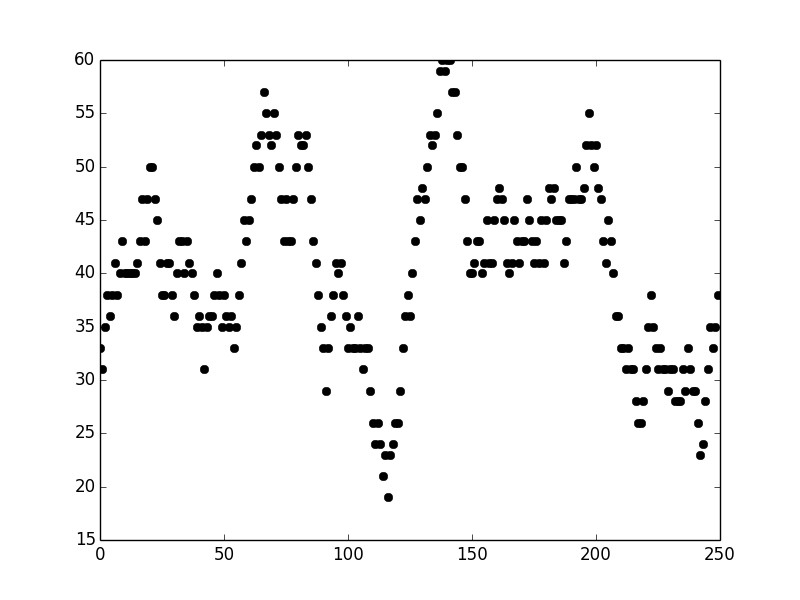
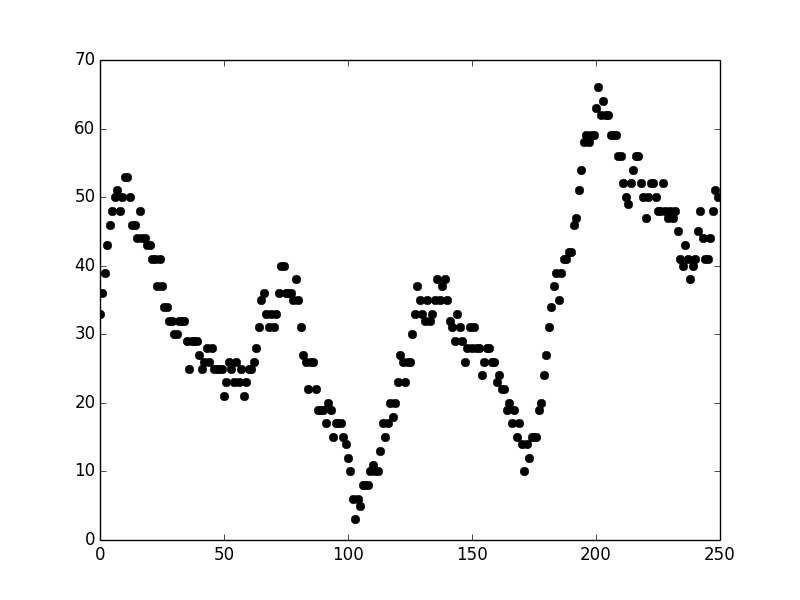
Add midi examples of scale shifting every 20 notes

diff --git a/merw.py b/merw.py
@@ -2,6 +2,7 @@ import numpy as np
 import matplotlib.pyplot as plt
 from potentials import *
 from merwmidi import make_midi
+import random
 
 class Merw(object):
     def __init__(self, size):
@@ -10,6 +11,8 @@ class Merw(object):
         self.pot = E_potential(self.size)
         self.S = self.pot.get_S()
         self.A = self.pot.get_A()
+    def set_scale_shift(self, shift):
+        self.pot.set_scale_shift(shift)
     def set_prefered(self, prefered):
         self.pot.set_prefered(prefered)
     def get_S(self):
@@ -51,14 +54,21 @@ if __name__ == '__main__':
         return ret
 
     for it in range(N_):
-        if (it%50 == 0):
-            print it, '/', N_, 'current position: ', pos
+
 
         # Histogram
         histogram[pos] += 1
 
         positions.append(pos)
         next_pos = merw.get_next_value(pos)
+
+        # Move
+        if (it%20 == 0):
+            shift = random.randint(-5,5)
+            shift = 3
+            merw.set_scale_shift(shift)
+            print it, '/', N_, 'current position: ', pos,\
+                    'changing scale:', shift
         merw.set_prefered(int(meta_pot(it)))
 
         # Switcheroo

diff --git a/potentials.py b/potentials.py
@@ -44,6 +44,7 @@ class E_potential(object):
 #        self.simple_A()
         self.calc_S()
 
+    # XXX - set this before self.prefered
     def set_scale_shift(self, shift):
         self.scale = np.roll(self.scale, shift)
 
